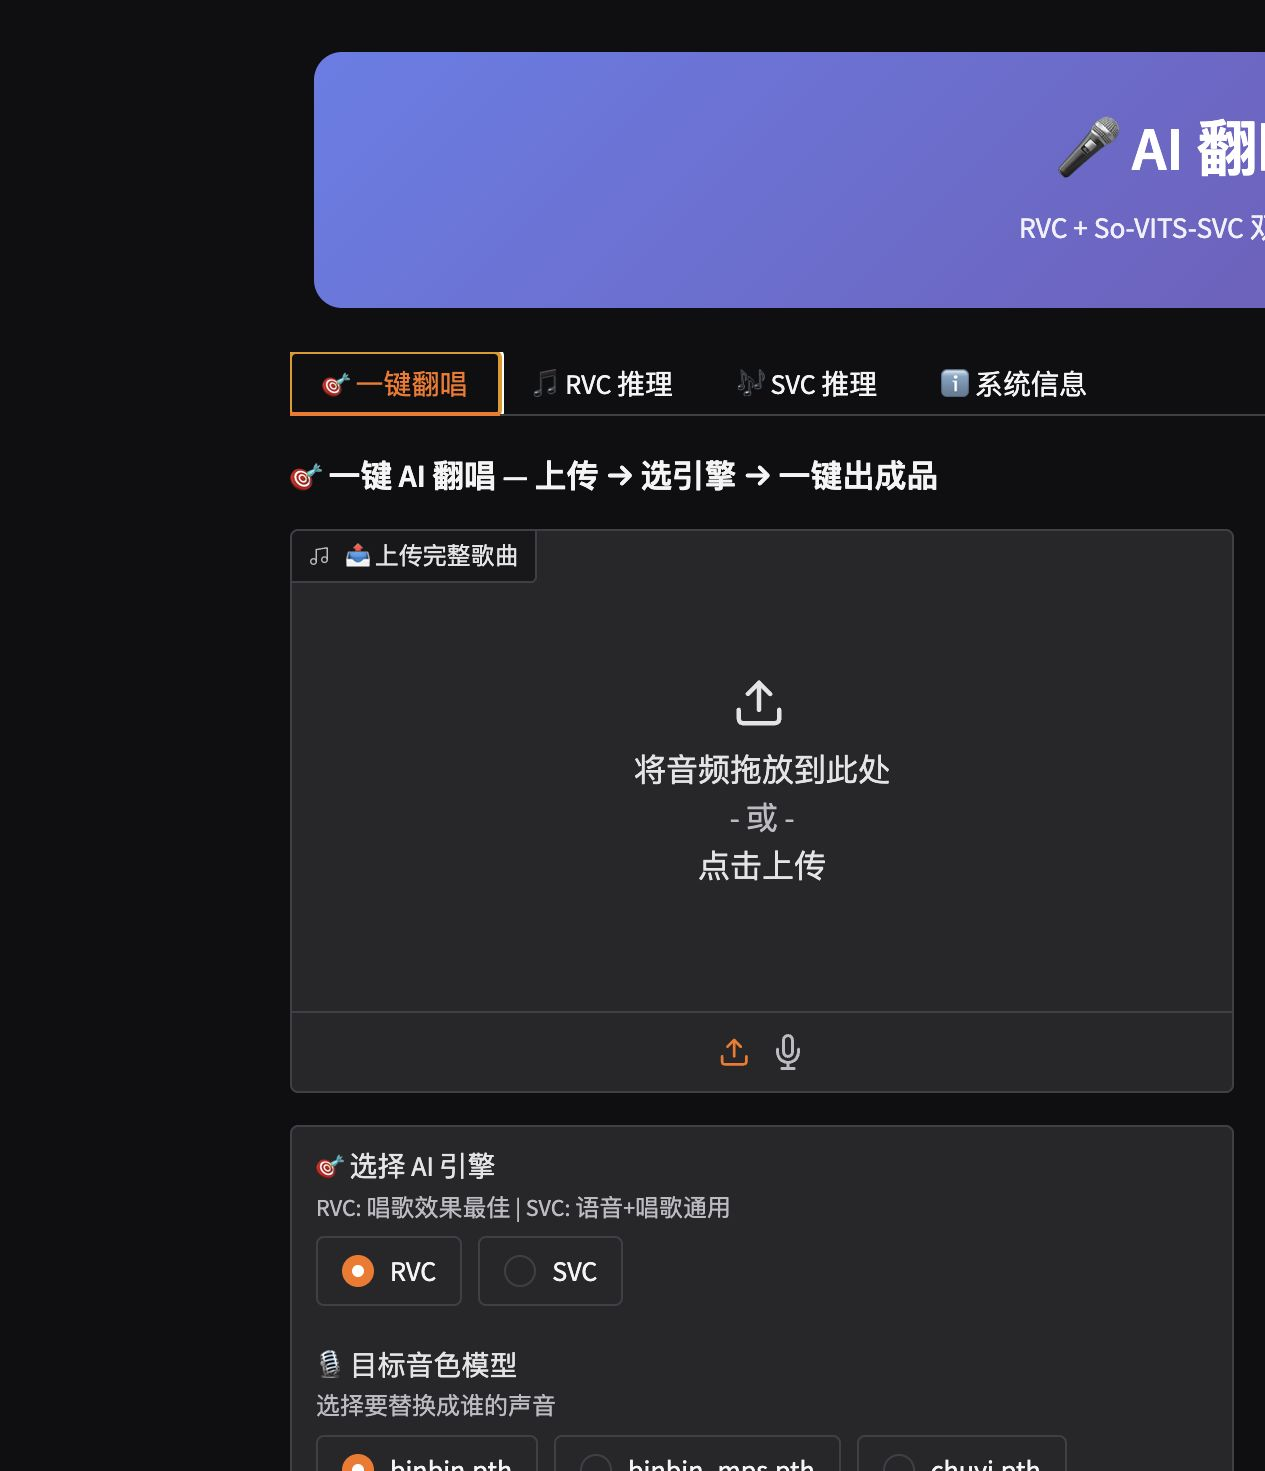
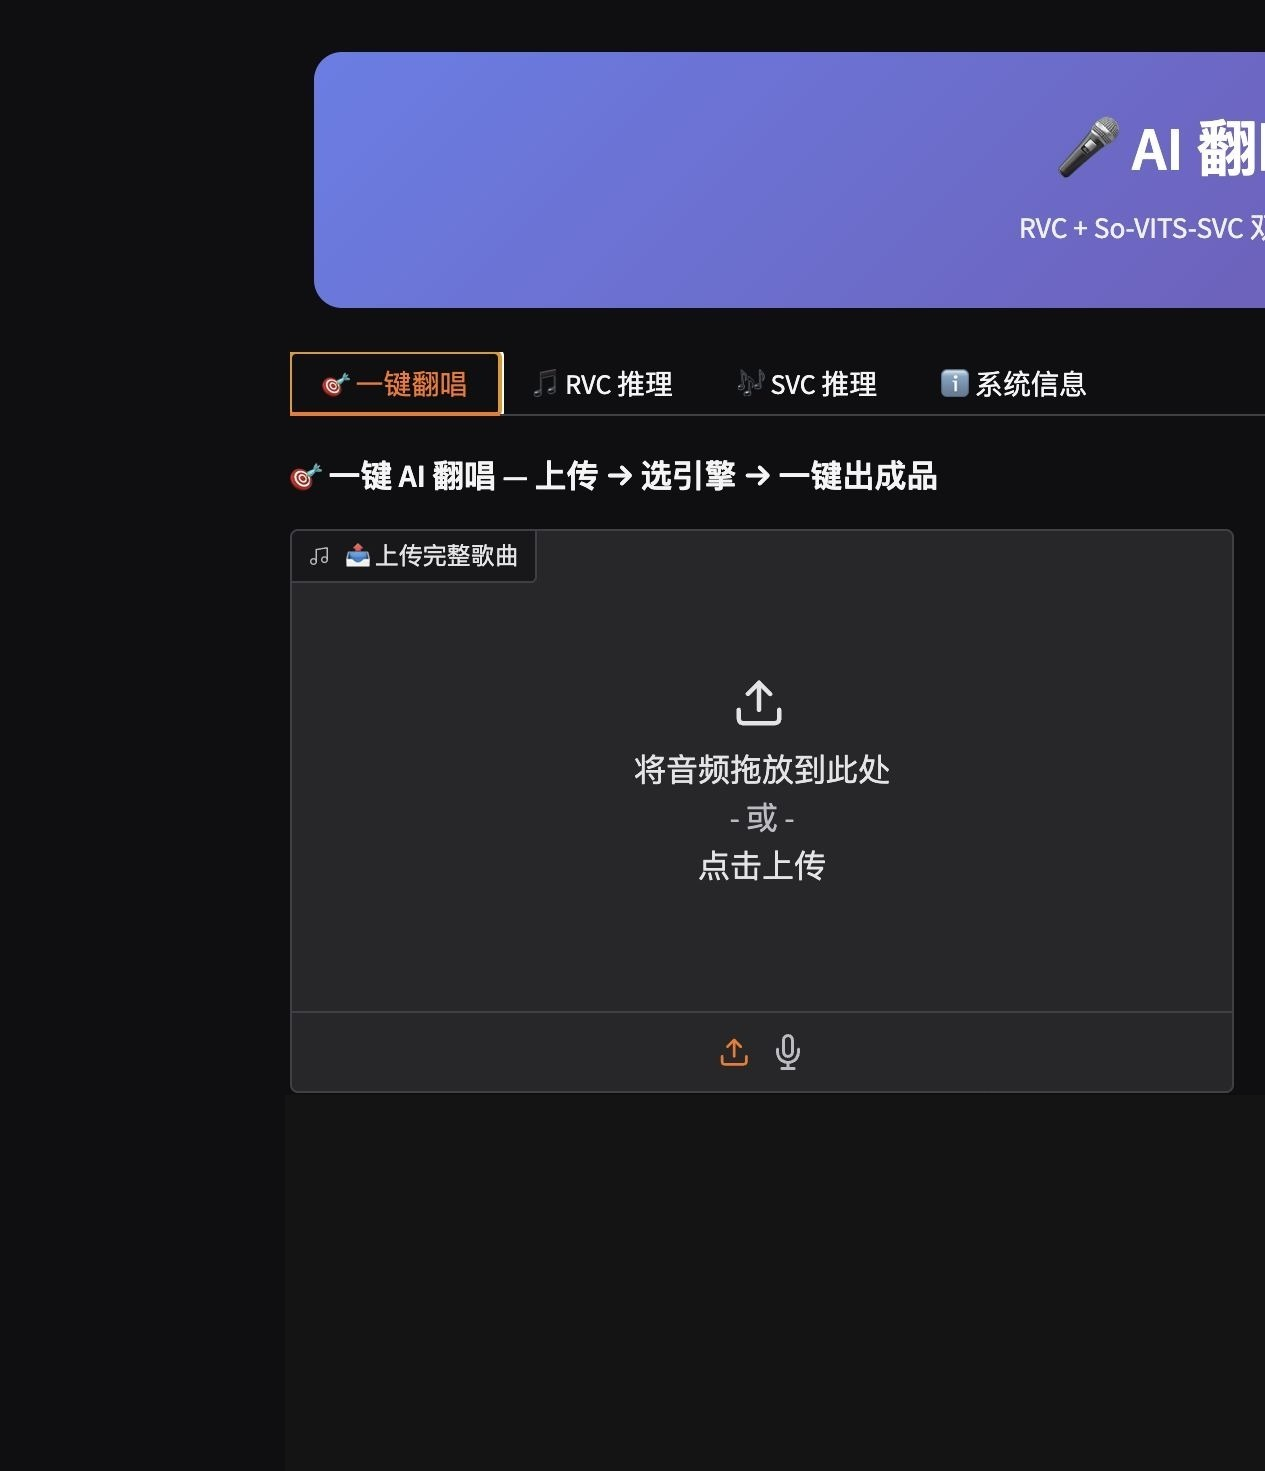
Redact private model names in screenshots

diff --git a/README.md b/README.md
@@ -19,6 +19,8 @@
 
 ## 界面一览
 
+截图中涉及客户资料的模型名已做打码。
+
 ### 一键翻唱
 
 ![一键翻唱](docs/screenshots/01-cover.jpg)
@@ -122,4 +124,3 @@
 - 不上传生成歌曲
 - 不上传临时音频、日志、缓存、训练产物
 - 不上传隐私文件
-